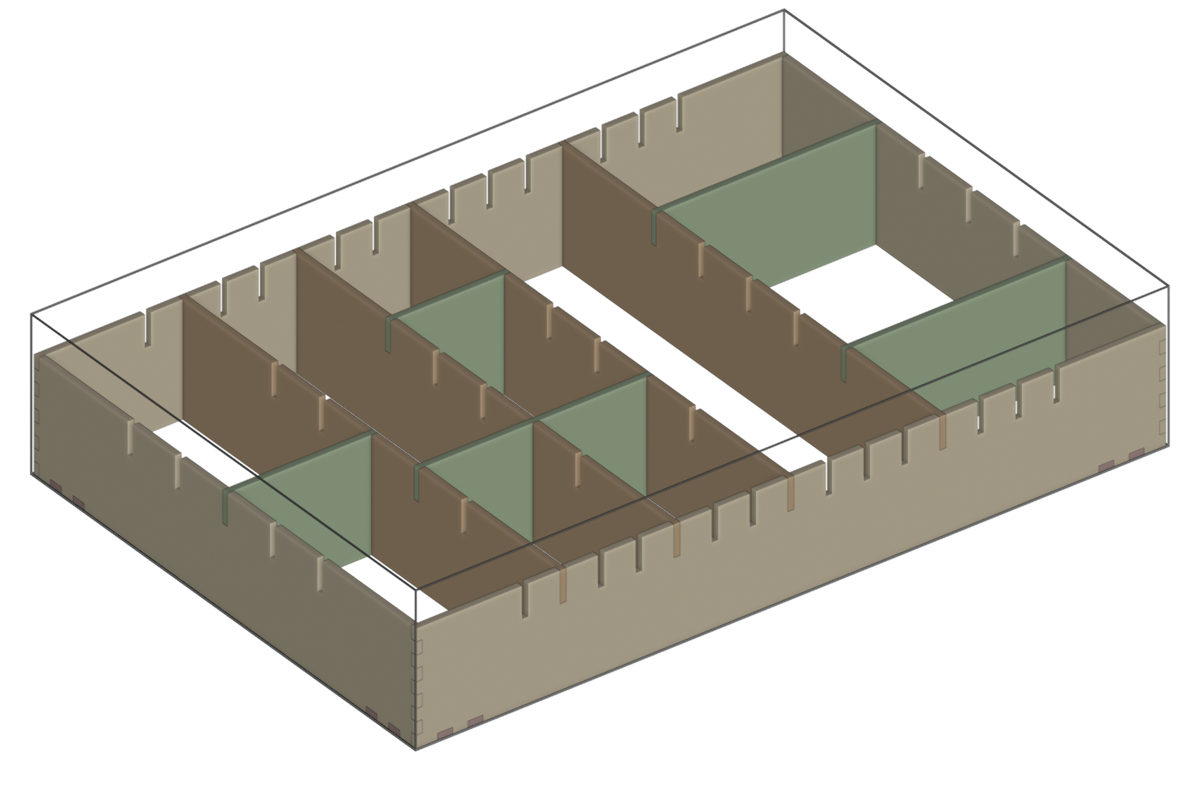
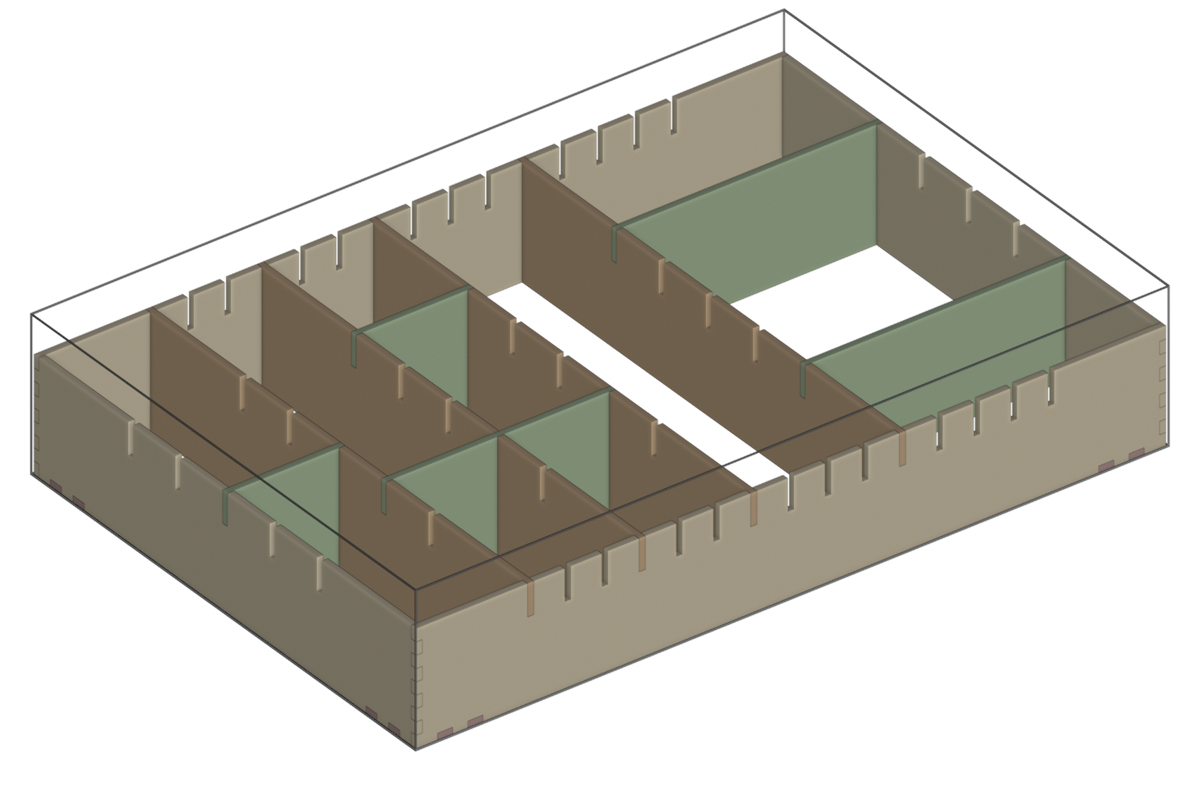
Drawer organizer: snap grid pitch, three equal left columns
Pitch is nudged so an even number of steps spans the wall minus one stock
thickness, making a cell against a wall the same width as a cell between
dividers for the same step count. Layout is now three 3-step columns, then
4-step and 5-step columns; row dividers follow. Glue confirmed in docs.

Claude-Session: https://claude.ai/code/session_01LZycd3S2pwbAJV8HQ6xUfH

Changed region(s): [[0.1233, 0.125, 0.8942, 0.7812], [0.4317, 0.6562, 0.5858, 0.7812], [0.2467, 0.5, 0.2775, 0.5312]]

diff --git a/projects/drawer-organizer/design.py b/projects/drawer-organizer/design.py
@@ -46,8 +46,8 @@ class OrganizerConfig:
     clearance: float = 1 / 16       # gap between the box and each drawer wall
     height: float = 5.5             # wall and divider height
     thickness: float = 0.25         # measured stock thickness
-    column_pitch: float = 1.5       # spacing of column-divider positions along the width
-    row_pitch: float = 1.5          # spacing of row-divider positions along the depth
+    column_pitch: float = 1.5       # target spacing of column-divider positions along the width
+    row_pitch: float = 2.5          # target spacing of row-divider positions along the depth
     notch_depth: float | None = None  # top-edge notch depth on walls and column dividers; default height/2
     finger_width: float = 0.5       # target finger width at the corners
     edge_margin: float = 0.5        # solid material kept between a grid notch and a corner joint
@@ -55,6 +55,16 @@ class OrganizerConfig:
     gusset_tabs: int = 2            # tabs along each gusset leg
     columns: list[int] = field(default_factory=list)       # column-grid indices holding a divider
     rows: list[RowDivider] = field(default_factory=list)
+
+
+def snap_pitch(length: float, target_pitch: float, thickness: float) -> float:
+    """The pitch nearest `target_pitch` such that an even number of pitches spans the
+    wall's length minus one stock thickness. With that, a cell against a wall and a
+    cell between two dividers are the same width for the same number of grid steps:
+    every cell is steps * pitch - thickness."""
+    span = length - thickness
+    n = max(2, 2 * round(span / target_pitch / 2))
+    return span / n
 
 
 def grid(length: float, pitch: float, thickness: float, clear: float) -> dict[int, float]:
@@ -78,8 +88,10 @@ class Design:
         self.top_notch_depth = cfg.height / 2 if cfg.notch_depth is None else cfg.notch_depth
         self.bottom_notch_depth = cfg.height - self.top_notch_depth
         clear = max(cfg.edge_margin, cfg.gusset_leg)  # dividers must miss the gussets too
-        self.column_grid = grid(self.width, cfg.column_pitch, t, clear)
-        self.row_grid = grid(self.depth, cfg.row_pitch, t, clear)
+        self.column_pitch = snap_pitch(self.width, cfg.column_pitch, t)
+        self.row_pitch = snap_pitch(self.depth, cfg.row_pitch, t)
+        self.column_grid = grid(self.width, self.column_pitch, t, clear)
+        self.row_grid = grid(self.depth, self.row_pitch, t, clear)
         self.gusset_tab_spans = even_tab_spans(cfg.gusset_leg, cfg.gusset_tabs) if cfg.gusset_leg > 0 else []
         self.finger_count = odd_finger_count(cfg.height, cfg.finger_width)
         self._validate()
@@ -224,9 +236,10 @@ class Design:
         lines = [
             f"Drawer organizer: outer {fmt(self.width)} x {fmt(self.depth)} x {fmt(self.height)} in, "
             f"{fmt(cfg.thickness)} in stock, {fmt(cfg.clearance)} in clearance per side",
-            f"Column grid: {len(self.column_grid)} positions at {fmt(cfg.column_pitch)} in pitch "
-            f"(x = {fmt(min(self.column_grid.values()))} .. {fmt(max(self.column_grid.values()))})",
-            f"Row grid:    {len(self.row_grid)} positions at {fmt(cfg.row_pitch)} in pitch "
+            f"Column grid: {len(self.column_grid)} positions at {fmt(self.column_pitch)} in pitch "
+            f"(x = {fmt(min(self.column_grid.values()))} .. {fmt(max(self.column_grid.values()))}); "
+            f"a cell n steps wide is {fmt(self.column_pitch)}n - {fmt(cfg.thickness)}",
+            f"Row grid:    {len(self.row_grid)} positions at {fmt(self.row_pitch)} in pitch "
             f"(y = {fmt(min(self.row_grid.values()))} .. {fmt(max(self.row_grid.values()))})",
             f"Egg-crate notches: {fmt(self.top_notch_depth)} in down from wall tops, "
             f"{fmt(self.bottom_notch_depth)} in up from divider bottoms",

diff --git a/projects/drawer-organizer/test_design.py b/projects/drawer-organizer/test_design.py
@@ -18,6 +18,15 @@ def test_outer_size_and_grid(design):
     assert len(design.row_grid) == 5
 
 
+def test_pitch_snaps_so_wall_cells_match_divider_cells(design):
+    assert design.column_pitch == pytest.approx((design.width - 0.25) / 20)
+    assert design.row_pitch == pytest.approx((design.depth - 0.25) / 8)
+    widths = [w for _, w, _ in design.cells()]
+    assert widths[0] == widths[1] == widths[2] == pytest.approx(3 * design.column_pitch - 0.25)
+    assert widths[3] == pytest.approx(4 * design.column_pitch - 0.25)
+    assert widths[4] == pytest.approx(7 * design.column_pitch - 0.25)
+
+
 def test_egg_crate_notches_are_complementary(design):
     assert design.top_notch_depth == 1.25
     assert design.top_notch_depth + design.bottom_notch_depth == design.height
@@ -33,6 +42,8 @@ def test_panel_sizes(design):
     x1 = design.column_grid[CONFIG.columns[0]] - 0.125
     x3 = design.column_grid[CONFIG.columns[2]] + 0.125
     assert row.outline.length == pytest.approx(x3 - x1)
+    # a row divider in one of the equal columns spans the cell plus two divider faces
+    assert by_name["row_1"].outline.length == pytest.approx(4.15625 + 0.5)
 
 
 def test_cut_list_needs_passthrough_for_walls(design):

diff --git a/projects/drawer-organizer/config.py b/projects/drawer-organizer/config.py
@@ -3,6 +3,10 @@
 Grid indices count outward from the middle of the drawer: column index 0 is the
 divider position at the drawer's centre line, -1 is one pitch to the left, +1 one
 pitch to the right. Row indices work the same way front (negative) to back (positive).
+
+The pitch is nudged so that a cell n grid steps wide is always n * pitch - thickness,
+whether it sits against a wall or between two dividers. With 20 column steps across
+this box, a divider at index -7 is three steps in from the left wall.
 """
 from design import OrganizerConfig, RowDivider
 
@@ -18,8 +22,9 @@ CONFIG = OrganizerConfig(
     notch_depth=1.25,
     gusset_leg=3.0,
     gusset_tabs=2,
-    # Column dividers at these grid positions (left to right).
-    columns=[-6, -3, 0, 4],
+    # Column dividers at these grid positions (left to right): three equal columns of
+    # 3 steps each on the left, then a 4-step and a 7-step column.
+    columns=[-7, -4, -1, 3],
     # Row dividers: (start boundary, end boundary, row index). Boundary 0 is the left
     # wall, 1..4 the column dividers above, 5 the right wall.
     rows=[

diff --git a/projects/drawer-organizer/README.md b/projects/drawer-organizer/README.md
@@ -53,14 +53,14 @@ All in `config.py`, all in inches.
 | `clearance` | 1/16 per side | box is the drawer size minus twice this |
 | `height` | 4.5 | wall and divider height |
 | `thickness` | 0.25 | **measure your actual stock with calipers** and set this |
-| `column_pitch` | 1.5 | spacing of column-divider positions across the width |
-| `row_pitch` | 2.5 | spacing of row-divider positions along the depth |
+| `column_pitch` | 1.5 | target spacing of column-divider positions across the width; snapped, see below |
+| `row_pitch` | 2.5 | target spacing of row-divider positions along the depth; snapped |
 | `notch_depth` | 1.25 | depth of the top-edge notches; dividers' bottom notches get the rest (3.25) |
 | `finger_width` | 0.5 | target; the real width makes an odd finger count |
 | `edge_margin` | 0.5 | solid wood kept between the outermost notch and a corner joint |
 | `gusset_leg` | 3.0 | leg length of the corner gussets; 0 removes them |
 | `gusset_tabs` | 2 | tabs along each gusset leg |
-| `columns` | `[-6, -3, 0, 4]` | grid indices of column dividers, 0 at the centre |
+| `columns` | `[-7, -4, -1, 3]` | grid indices of column dividers, 0 at the centre |
 | `rows` | five dividers | `(start boundary, end boundary, row index)` |
 
 Grid indices count outward from the middle: column index 0 is the drawer's centre line,
@@ -68,20 +68,29 @@ negative is left, positive is right; row index 0 is the middle of the depth, neg
 toward the front. Grid positions that would run into a gusset are dropped, so with the defaults there
 are 15 column positions and 5 row positions (19 and 7 without gussets).
 
+**Pitch snapping.** A cell against a wall is bounded by one wall face and one divider
+face; a cell between dividers by two divider faces. For the same number of grid steps
+those differ by half a stock thickness, unless an even number of pitches spans the wall
+length minus one thickness. So the pitch is nudged to the nearest value that does: here
+1.46875 in across (20 steps) and 2.484 in front to back (8 steps). Then any cell is
+simply steps x pitch minus thickness, wherever it sits, and columns given the same
+number of steps come out identical.
+
 ## Current layout
 
-Running `build.py` prints this. Five columns, left to right:
+Running `build.py` prints this. Three equal columns on the left (3 grid steps each),
+then a 4-step and a 7-step column:
 
 | column | clear width | cells front to back |
 |---|---|---|
-| 1 | 5.4375 | 9.6875 / 9.6875 |
-| 2 | 4.25 | 7.1875 / 12.1875 |
-| 3 | 4.25 | 7.1875 / 7.25 / 4.6875 |
-| 4 | 5.75 | 19.625 |
-| 5 | 8.4375 | 4.6875 / 9.75 / 4.6875 |
+| 1 | 4.15625 | 9.6875 / 9.6875 |
+| 2 | 4.15625 | 7.203 / 12.172 |
+| 3 | 4.15625 | 7.203 / 7.203 / 4.719 |
+| 4 | 5.625 | 19.625 |
+| 5 | 10.03125 | 4.719 / 9.6875 / 4.719 |
 
-This is a demonstration layout that exercises every joint type, not a proposal for
-what belongs in the drawer.
+The row dividers are still the demonstration set that exercises every joint type; their
+lengths follow the columns automatically.
 
 ## Cutting
 
@@ -90,7 +99,7 @@ what belongs in the drawer.
 | long wall | 2 | 29.625 x 4.5 | passthrough |
 | short wall | 2 | 20.125 x 4.5 | passthrough |
 | column divider | 4 | 20.125 x 4.5 | passthrough |
-| row dividers | 5 | 4.75 to 9.25 x 4.5 | fit on the bed |
+| row dividers | 5 | 4.66 to 10.53 x 4.5 | fit on the bed |
 | corner gusset | 4 | 3.25 x 3.25 | fit on the bed |
 
 Every part that runs the full depth of the drawer is just over the 19.5 in bed, so the
@@ -108,13 +117,13 @@ stock thickness get applied at that stage; the geometry here is nominal.
    the dividers' 3.25 in bottom notches do the holding. The trade-off is that a divider
    is held sideways only by its 1.25 in ear in the wall slot, so a loose fit lets it
    rock; kerf compensation at export should aim for a snug fit.
-3. **Pitch 1.5 in across, 2.5 in front to back.** Column positions stay fine-grained;
-   row positions are deliberately few (7).
+3. **Pitch about 1.5 in across, 2.5 in front to back,** snapped as described above.
+   Column positions stay fine-grained; row positions are deliberately few.
 4. **Corner gussets, 3 in legs.** They triangulate the corners of a box that otherwise
    has nothing keeping it square once it leaves the drawer. The cost is a triangle of
    floor in each corner cell and the divider positions nearest the corners, which only
    ever made cells under 2.5 in wide. A 2 in leg keeps one more column position per
-   side. They assume the box is glued; see the note in the joint description.
+   side. The box is glued, so they earn their keep.
 5. **Stock thickness.** Nominal 1/4 in plywood is usually 0.2 to 0.23 in. The design
    scales with `thickness`, so measure before cutting.
 6. **Grain and faces.** Plywood cuts the same either side up, and the walls' outer faces
